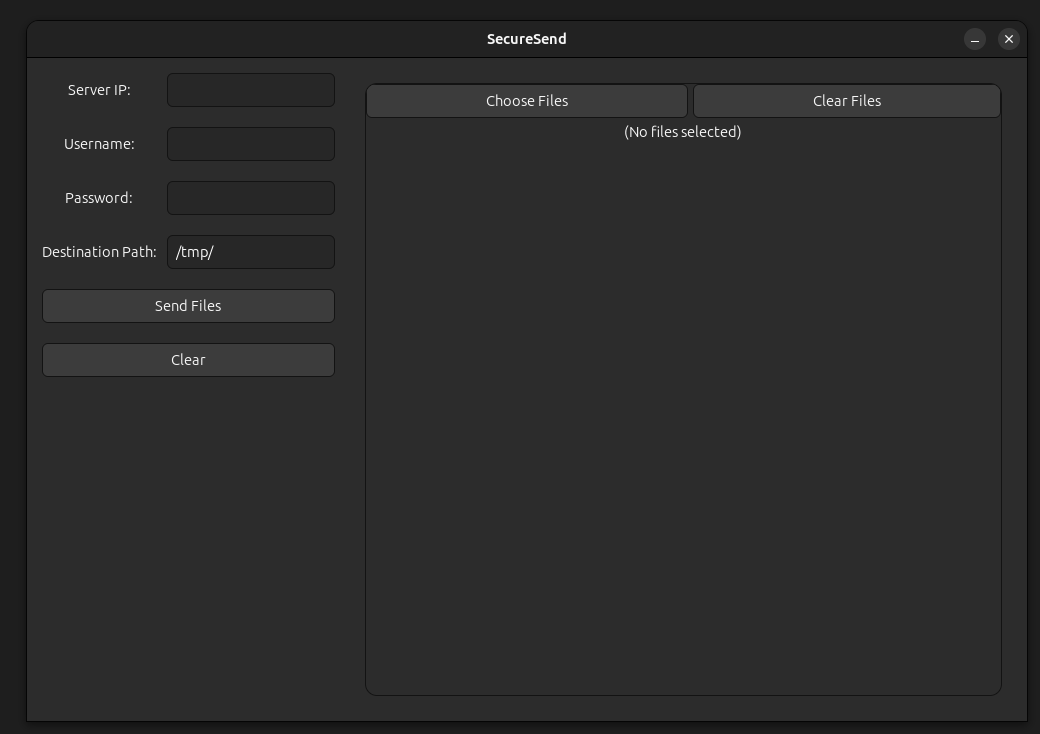
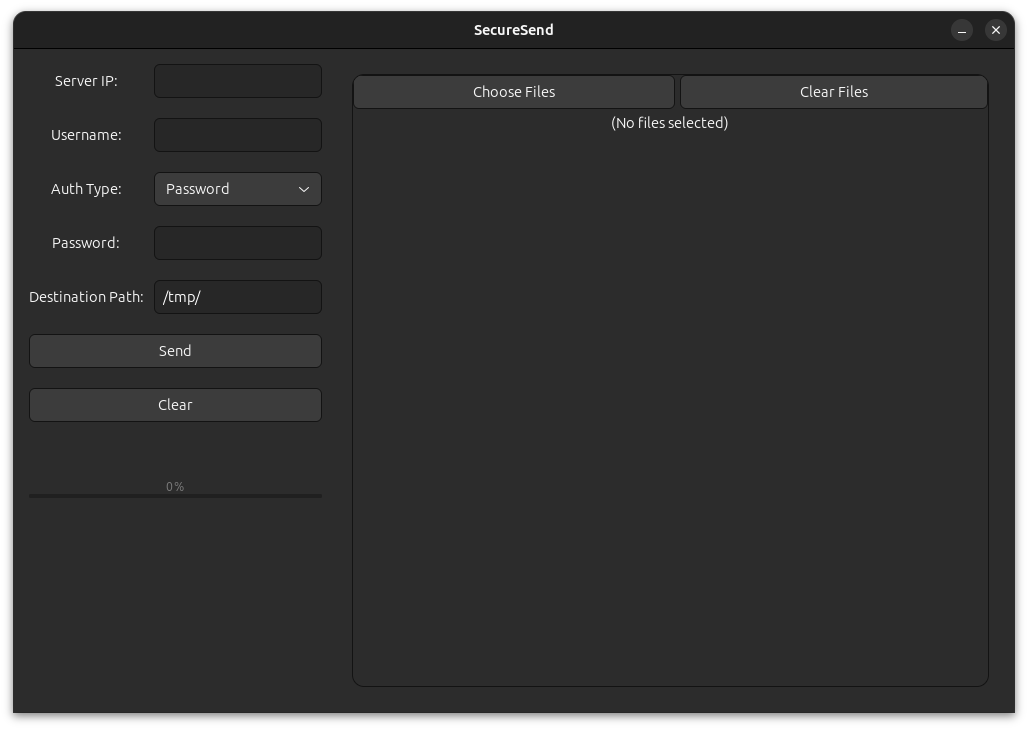
Stage1: completed: Created a skelton of applicarion, Implemented sending logic, progressbar, file picker

diff --git a/modules/ui_elememts.py b/modules/ui_elememts.py
@@ -14,9 +14,7 @@ class SecureSendUI:
         self.files = [] #This creates an empty list to store files that the user will select later.
 
 
-
-
-#-----------------creating LEFT SIDE Elements--------------------------
+#-----------------LEFT SIDE Elements--------------------------
 
     def build_layout(self):  # function that created the UI elements
 
@@ -29,6 +27,7 @@ class SecureSendUI:
         #puts this box inside the main window.
         self.window.set_child(hbox)
         # What we did is : Create a horizontal container with some space around it and put it inside the window.”
+
 
 
 
@@ -85,6 +84,8 @@ class SecureSendUI:
         #Adding Clear button
         self.clear_btn = Gtk.Button(label="Clear") #Creates a button labeled “Clear”.
         left_grid.attach(self.clear_btn, 0, 6, 2, 1)# Placed in row 3, spanning 2 columns, so it’s centered under the entries.
+        # Function that handle clear logic
+        self.clear_btn.connect("clicked", self.clear_inputs)
 
         # Progress Bar (under all entries, above Send button)
         self.progress_bar = Gtk.ProgressBar()
@@ -96,13 +97,9 @@ class SecureSendUI:
         self.feedback_label = Gtk.Label(label="")
         self.feedback_label.set_wrap(True)
         left_grid.attach(self.feedback_label, 0, 8, 2, 1)  # row 5, spanning 2 columns
+   
 
-     
-
-
-
-#-----------------creating RIGHT SIDE Elements--------------------------
-
+#-----------------RIGHT SIDE Elements--------------------------
 
 # Right side frame
         right_frame = Gtk.Frame()
@@ -134,11 +131,6 @@ class SecureSendUI:
         buttons_box.append(self.clear_btn)
 
 
-
-
-
-
-
         # By default the no files are selected message is displayed in side the box.
         self.files_label = Gtk.Label(label="(No files selected)")
         right_box.append(self.files_label)
@@ -159,7 +151,7 @@ class SecureSendUI:
         self.feedback_label.set_text("")        
         choose_files_and_update(self.window, self.files_label, self.files)
 
-    # This function is used to clear the files that ae choosen by select files button sialogue box.
+    # This function is used to clear the files that are choosen by select files button sialogue box.
     def on_clear_clicked(self, button):
         self.files.clear()
         self.feedback_label.set_text("")
@@ -167,6 +159,15 @@ class SecureSendUI:
 
         # Reset send feedback label
         self.feedback_label.set_text("")
+
+
+    # function to clear the input boxes:     
+    def clear_inputs(self, button):
+        self.files.clear()
+        self.feedback_label.set_text("")
+        self.ip_entry.set_text("")
+        self.user_entry.set_text("")
+        self.pass_entry.set_text("")              
 
 
     # function that handle sending logic
@@ -186,8 +187,6 @@ class SecureSendUI:
         def progress_callback(fraction):
             self.progress_bar.set_fraction(fraction)
             self.progress_bar.set_text(f"{int(fraction*100)}%")
-
-
 
 
          # Send files

diff --git a/README.md b/README.md
@@ -1,3 +1,4 @@
 ## Sample screenshot of the Application
 
 ![alt text](resources/image.png)
+
